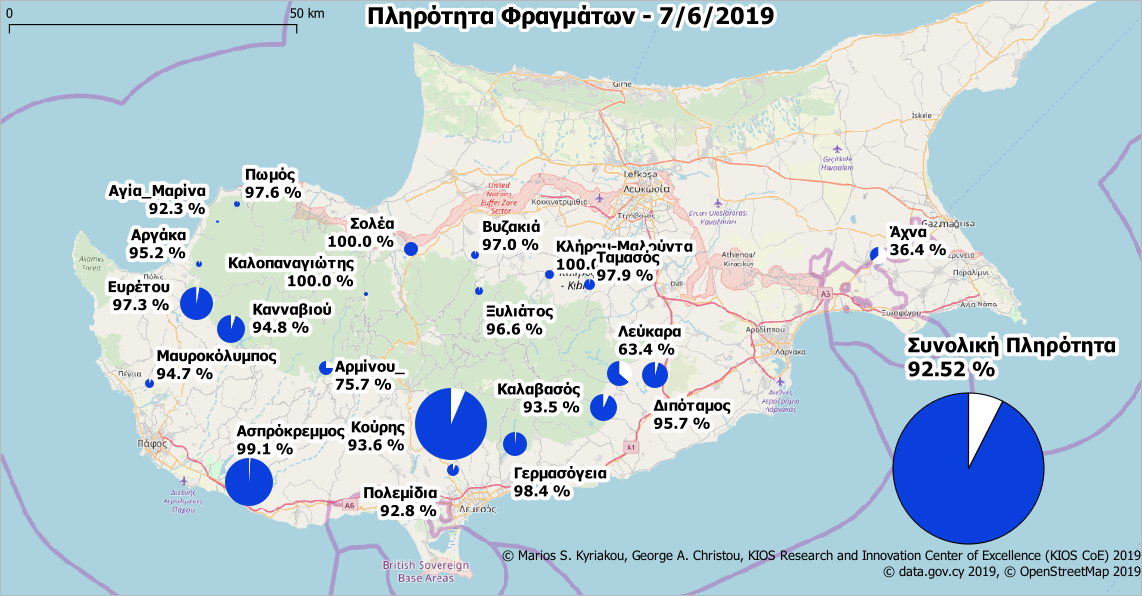
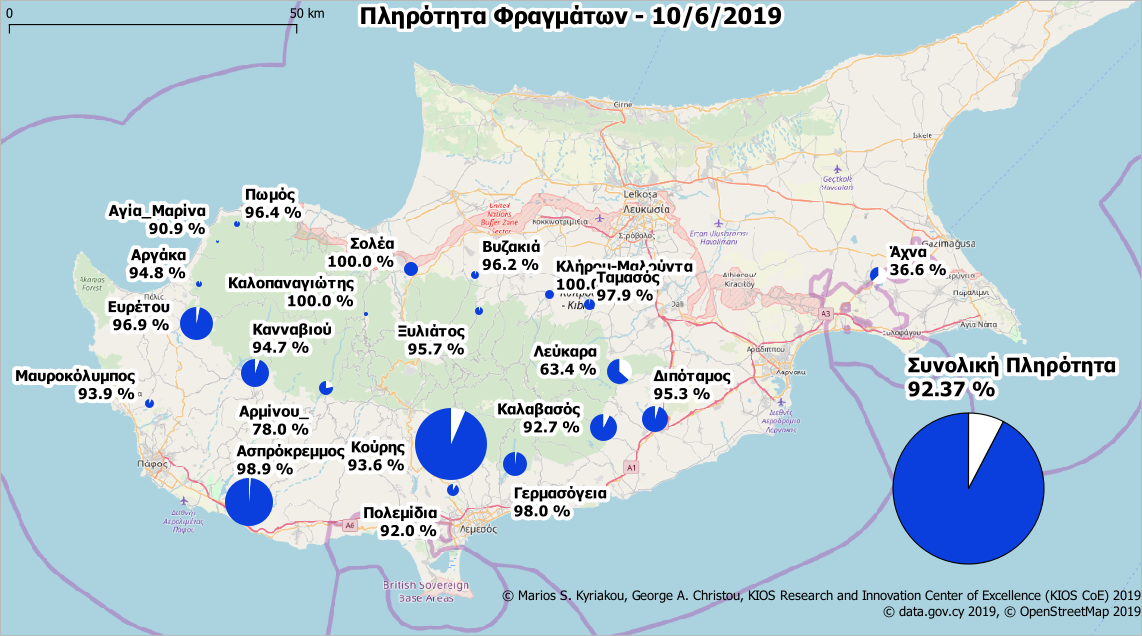
update

diff --git a/dams.html b/dams.html
@@ -11,7 +11,7 @@
          1px  1px 7px WHITE;
     }
     }
-    </style><p><b>Ημερομηνία ανανέωσης δεδομένων: 7/6/2019<p><font color="#0000FF">Η συνολική πληρότητα στα φράγματα είναι 92.52%</font>.<p>Υπάρχουν συνολικά <font color="#0000FF">3</font> φράγματα με πληρότητα <font color="#0000FF">100%</font>.<p>Υπάρχουν <font color="#0000FF">20</font> φράγματα με πληρότητα πάνω από <font color="#0000FF">50%</font>.</b><p><b>Υπάρχουν δεδομένα για 21 φράγματα. Συνολικά υπάρχουν 108 φράγματα. <b><p><p><p>* Ε.Κ.Μ. - Εκατομμύρια Kυβικά  Mέτρα.<table width="444">
+    </style><p><b>Ημερομηνία ανανέωσης δεδομένων: 10/6/2019<p><font color="#0000FF">Η συνολική πληρότητα στα φράγματα είναι 92.37%</font>.<p>Υπάρχουν συνολικά <font color="#0000FF">3</font> φράγματα με πληρότητα <font color="#0000FF">100%</font>.<p>Υπάρχουν <font color="#0000FF">20</font> φράγματα με πληρότητα πάνω από <font color="#0000FF">50%</font>.</b><p><b>Υπάρχουν δεδομένα για 21 φράγματα. Συνολικά υπάρχουν 108 φράγματα. <b><p><p><p>* Ε.Κ.Μ. - Εκατομμύρια Kυβικά  Mέτρα.<table width="444">
     <tbody>
     <tr>
     <th width="2"><b></b></th>
@@ -19,7 +19,7 @@
     <th width="60"><b>Χωρητικότητα (Ε.Κ.Μ.)</b></th>
     <th width="60"><b>Σημερινή (Ε.Κ.Μ.)</b></th>
     <th width="60"><b> Σημερινή Πληρότητα (%)</b></th>
-    </tr><tr><td bgcolor=#1A9641 class=border-white>1</td><td bgcolor=#1A9641 class=border-white>Κούρης</td><td bgcolor=#1A9641 class=border-white>115.0</td><td bgcolor=#1A9641 class=border-white>107.633</td><td bgcolor=#1A9641 class=border-white>93.6</td></tr><tr><tr><td bgcolor=#1A9641 class=border-white>2</td><td bgcolor=#1A9641 class=border-white>Ασπρόκρεμμος</td><td bgcolor=#1A9641 class=border-white>52.375</td><td bgcolor=#1A9641 class=border-white>51.883</td><td bgcolor=#1A9641 class=border-white>99.1</td></tr><tr><tr><td bgcolor=#1A9641 class=border-white>3</td><td bgcolor=#1A9641 class=border-white>Ευρέτου</td><td bgcolor=#1A9641 class=border-white>24.0</td><td bgcolor=#1A9641 class=border-white>23.346</td><td bgcolor=#1A9641 class=border-white>97.3</td></tr><tr><tr><td bgcolor=#1A9641 class=border-white>4</td><td bgcolor=#1A9641 class=border-white>Κανναβιού</td><td bgcolor=#1A9641 class=border-white>17.168</td><td bgcolor=#1A9641 class=border-white>16.28</td><td bgcolor=#1A9641 class=border-white>94.8</td></tr><tr><tr><td bgcolor=#1A9641 class=border-white>5</td><td bgcolor=#1A9641 class=border-white>Καλαβασός</td><td bgcolor=#1A9641 class=border-white>17.1</td><td bgcolor=#1A9641 class=border-white>15.989</td><td bgcolor=#1A9641 class=border-white>93.5</td></tr><tr><tr><td bgcolor=#1A9641 class=border-white>6</td><td bgcolor=#1A9641 class=border-white>Διπόταμος</td><td bgcolor=#1A9641 class=border-white>15.5</td><td bgcolor=#1A9641 class=border-white>14.834</td><td bgcolor=#1A9641 class=border-white>95.7</td></tr><tr><tr><td bgcolor=#A6D96A class=border-white>7</td><td bgcolor=#A6D96A class=border-white>Λεύκαρα</td><td bgcolor=#A6D96A class=border-white>13.85</td><td bgcolor=#A6D96A class=border-white>8.783</td><td bgcolor=#A6D96A class=border-white>63.4</td></tr><tr><tr><td bgcolor=#1A9641 class=border-white>8</td><td bgcolor=#1A9641 class=border-white>Γερμασόγεια</td><td bgcolor=#1A9641 class=border-white>13.5</td><td bgcolor=#1A9641 class=border-white>13.282</td><td bgcolor=#1A9641 class=border-white>98.4</td></tr><tr><tr><td bgcolor=#FED690 class=border-white>9</td><td bgcolor=#FED690 class=border-white>Άχνα</td><td bgcolor=#FED690 class=border-white>6.8</td><td bgcolor=#FED690 class=border-white>2.478</td><td bgcolor=#FED690 class=border-white>36.4</td></tr><tr><tr><td bgcolor=#1A9641 class=border-white>10</td><td bgcolor=#1A9641 class=border-white>Σολέα</td><td bgcolor=#1A9641 class=border-white>4.454</td><td bgcolor=#1A9641 class=border-white>4.454</td><td bgcolor=#1A9641 class=border-white>100.0</td></tr><tr><tr><td bgcolor=#77C25C class=border-white>11</td><td bgcolor=#77C25C class=border-white>Αρμίνου_</td><td bgcolor=#77C25C class=border-white>4.3</td><td bgcolor=#77C25C class=border-white>3.254</td><td bgcolor=#77C25C class=border-white>75.7</td></tr><tr><tr><td bgcolor=#1A9641 class=border-white>12</td><td bgcolor=#1A9641 class=border-white>Πολεμίδια</td><td bgcolor=#1A9641 class=border-white>3.4</td><td bgcolor=#1A9641 class=border-white>3.154</td><td bgcolor=#1A9641 class=border-white>92.8</td></tr><tr><tr><td bgcolor=#1A9641 class=border-white>13</td><td bgcolor=#1A9641 class=border-white>Ταμασός</td><td bgcolor=#1A9641 class=border-white>2.8</td><td bgcolor=#1A9641 class=border-white>2.74</td><td bgcolor=#1A9641 class=border-white>97.9</td></tr><tr><tr><td bgcolor=#1A9641 class=border-white>14</td><td bgcolor=#1A9641 class=border-white>Μαυροκόλυμπος</td><td bgcolor=#1A9641 class=border-white>2.18</td><td bgcolor=#1A9641 class=border-white>2.064</td><td bgcolor=#1A9641 class=border-white>94.7</td></tr><tr><tr><td bgcolor=#1A9641 class=border-white>15</td><td bgcolor=#1A9641 class=border-white>Κλήρου-Μαλούντα</td><td bgcolor=#1A9641 class=border-white>2.0</td><td bgcolor=#1A9641 class=border-white>2.0</td><td bgcolor=#1A9641 class=border-white>100.0</td></tr><tr><tr><td bgcolor=#1A9641 class=border-white>16</td><td bgcolor=#1A9641 class=border-white>Βυζακιά</td><td bgcolor=#1A9641 class=border-white>1.69</td><td bgcolor=#1A9641 class=border-white>1.64</td><td bgcolor=#1A9641 class=border-white>97.0</td></tr><tr><tr><td bgcolor=#1A9641 class=border-white>17</td><td bgcolor=#1A9641 class=border-white>Ξυλιάτος</td><td bgcolor=#1A9641 class=border-white>1.43</td><td bgcolor=#1A9641 class=border-white>1.381</td><td bgcolor=#1A9641 class=border-white>96.6</td></tr><tr><tr><td bgcolor=#1A9641 class=border-white>18</td><td bgcolor=#1A9641 class=border-white>Αργάκα</td><td bgcolor=#1A9641 class=border-white>0.99</td><td bgcolor=#1A9641 class=border-white>0.942</td><td bgcolor=#1A9641 class=border-white>95.2</td></tr><tr><tr><td bgcolor=#1A9641 class=border-white>19</td><td bgcolor=#1A9641 class=border-white>Πωμός</td><td bgcolor=#1A9641 class=border-white>0.86</td><td bgcolor=#1A9641 class=border-white>0.839</td><td bgcolor=#1A9641 class=border-white>97.6</td></tr><tr><tr><td bgcolor=#1A9641 class=border-white>20</td><td bgcolor=#1A9641 class=border-white>Καλοπαναγιώτης</td><td bgcolor=#1A9641 class=border-white>0.363</td><td bgcolor=#1A9641 class=border-white>0.363</td><td bgcolor=#1A9641 class=border-white>100.0</td></tr><tr><tr><td bgcolor=#1A9641 class=border-white>21</td><td bgcolor=#1A9641 class=border-white>Αγία_Μαρίνα</td><td bgcolor=#1A9641 class=border-white>0.298</td><td bgcolor=#1A9641 class=border-white>0.275</td><td bgcolor=#1A9641 class=border-white>92.3</td></tr><tr>
+    </tr><tr><td bgcolor=#1A9641 class=border-white>1</td><td bgcolor=#1A9641 class=border-white>Κούρης</td><td bgcolor=#1A9641 class=border-white>115.0</td><td bgcolor=#1A9641 class=border-white>107.633</td><td bgcolor=#1A9641 class=border-white>93.6</td></tr><tr><tr><td bgcolor=#1A9641 class=border-white>2</td><td bgcolor=#1A9641 class=border-white>Ασπρόκρεμμος</td><td bgcolor=#1A9641 class=border-white>52.375</td><td bgcolor=#1A9641 class=border-white>51.785</td><td bgcolor=#1A9641 class=border-white>98.9</td></tr><tr><tr><td bgcolor=#1A9641 class=border-white>3</td><td bgcolor=#1A9641 class=border-white>Ευρέτου</td><td bgcolor=#1A9641 class=border-white>24.0</td><td bgcolor=#1A9641 class=border-white>23.263</td><td bgcolor=#1A9641 class=border-white>96.9</td></tr><tr><tr><td bgcolor=#1A9641 class=border-white>4</td><td bgcolor=#1A9641 class=border-white>Κανναβιού</td><td bgcolor=#1A9641 class=border-white>17.168</td><td bgcolor=#1A9641 class=border-white>16.252</td><td bgcolor=#1A9641 class=border-white>94.7</td></tr><tr><tr><td bgcolor=#1A9641 class=border-white>5</td><td bgcolor=#1A9641 class=border-white>Καλαβασός</td><td bgcolor=#1A9641 class=border-white>17.1</td><td bgcolor=#1A9641 class=border-white>15.849</td><td bgcolor=#1A9641 class=border-white>92.7</td></tr><tr><tr><td bgcolor=#1A9641 class=border-white>6</td><td bgcolor=#1A9641 class=border-white>Διπόταμος</td><td bgcolor=#1A9641 class=border-white>15.5</td><td bgcolor=#1A9641 class=border-white>14.775</td><td bgcolor=#1A9641 class=border-white>95.3</td></tr><tr><tr><td bgcolor=#A6D96A class=border-white>7</td><td bgcolor=#A6D96A class=border-white>Λεύκαρα</td><td bgcolor=#A6D96A class=border-white>13.85</td><td bgcolor=#A6D96A class=border-white>8.778</td><td bgcolor=#A6D96A class=border-white>63.4</td></tr><tr><tr><td bgcolor=#1A9641 class=border-white>8</td><td bgcolor=#1A9641 class=border-white>Γερμασόγεια</td><td bgcolor=#1A9641 class=border-white>13.5</td><td bgcolor=#1A9641 class=border-white>13.229</td><td bgcolor=#1A9641 class=border-white>98.0</td></tr><tr><tr><td bgcolor=#FED690 class=border-white>9</td><td bgcolor=#FED690 class=border-white>Άχνα</td><td bgcolor=#FED690 class=border-white>6.8</td><td bgcolor=#FED690 class=border-white>2.491</td><td bgcolor=#FED690 class=border-white>36.6</td></tr><tr><tr><td bgcolor=#1A9641 class=border-white>10</td><td bgcolor=#1A9641 class=border-white>Σολέα</td><td bgcolor=#1A9641 class=border-white>4.454</td><td bgcolor=#1A9641 class=border-white>4.454</td><td bgcolor=#1A9641 class=border-white>100.0</td></tr><tr><tr><td bgcolor=#77C25C class=border-white>11</td><td bgcolor=#77C25C class=border-white>Αρμίνου_</td><td bgcolor=#77C25C class=border-white>4.3</td><td bgcolor=#77C25C class=border-white>3.354</td><td bgcolor=#77C25C class=border-white>78.0</td></tr><tr><tr><td bgcolor=#1A9641 class=border-white>12</td><td bgcolor=#1A9641 class=border-white>Πολεμίδια</td><td bgcolor=#1A9641 class=border-white>3.4</td><td bgcolor=#1A9641 class=border-white>3.129</td><td bgcolor=#1A9641 class=border-white>92.0</td></tr><tr><tr><td bgcolor=#1A9641 class=border-white>13</td><td bgcolor=#1A9641 class=border-white>Ταμασός</td><td bgcolor=#1A9641 class=border-white>2.8</td><td bgcolor=#1A9641 class=border-white>2.74</td><td bgcolor=#1A9641 class=border-white>97.9</td></tr><tr><tr><td bgcolor=#1A9641 class=border-white>14</td><td bgcolor=#1A9641 class=border-white>Μαυροκόλυμπος</td><td bgcolor=#1A9641 class=border-white>2.18</td><td bgcolor=#1A9641 class=border-white>2.048</td><td bgcolor=#1A9641 class=border-white>93.9</td></tr><tr><tr><td bgcolor=#1A9641 class=border-white>15</td><td bgcolor=#1A9641 class=border-white>Κλήρου-Μαλούντα</td><td bgcolor=#1A9641 class=border-white>2.0</td><td bgcolor=#1A9641 class=border-white>2.0</td><td bgcolor=#1A9641 class=border-white>100.0</td></tr><tr><tr><td bgcolor=#1A9641 class=border-white>16</td><td bgcolor=#1A9641 class=border-white>Βυζακιά</td><td bgcolor=#1A9641 class=border-white>1.69</td><td bgcolor=#1A9641 class=border-white>1.625</td><td bgcolor=#1A9641 class=border-white>96.2</td></tr><tr><tr><td bgcolor=#1A9641 class=border-white>17</td><td bgcolor=#1A9641 class=border-white>Ξυλιάτος</td><td bgcolor=#1A9641 class=border-white>1.43</td><td bgcolor=#1A9641 class=border-white>1.368</td><td bgcolor=#1A9641 class=border-white>95.7</td></tr><tr><tr><td bgcolor=#1A9641 class=border-white>18</td><td bgcolor=#1A9641 class=border-white>Αργάκα</td><td bgcolor=#1A9641 class=border-white>0.99</td><td bgcolor=#1A9641 class=border-white>0.939</td><td bgcolor=#1A9641 class=border-white>94.8</td></tr><tr><tr><td bgcolor=#1A9641 class=border-white>19</td><td bgcolor=#1A9641 class=border-white>Πωμός</td><td bgcolor=#1A9641 class=border-white>0.86</td><td bgcolor=#1A9641 class=border-white>0.829</td><td bgcolor=#1A9641 class=border-white>96.4</td></tr><tr><tr><td bgcolor=#1A9641 class=border-white>20</td><td bgcolor=#1A9641 class=border-white>Καλοπαναγιώτης</td><td bgcolor=#1A9641 class=border-white>0.363</td><td bgcolor=#1A9641 class=border-white>0.363</td><td bgcolor=#1A9641 class=border-white>100.0</td></tr><tr><tr><td bgcolor=#1A9641 class=border-white>21</td><td bgcolor=#1A9641 class=border-white>Αγία_Μαρίνα</td><td bgcolor=#1A9641 class=border-white>0.298</td><td bgcolor=#1A9641 class=border-white>0.271</td><td bgcolor=#1A9641 class=border-white>90.9</td></tr><tr>
     </tr>
     <tr>
     <td></td>
